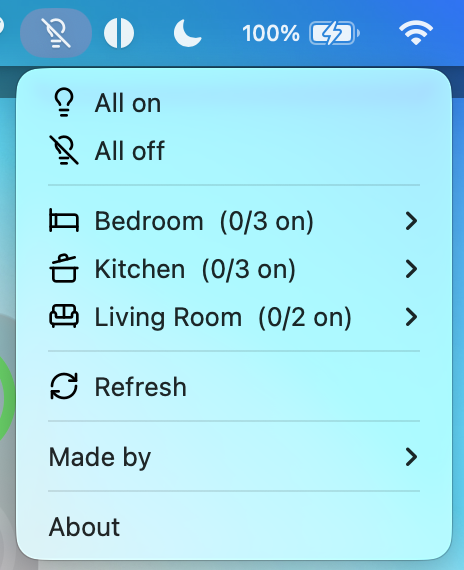
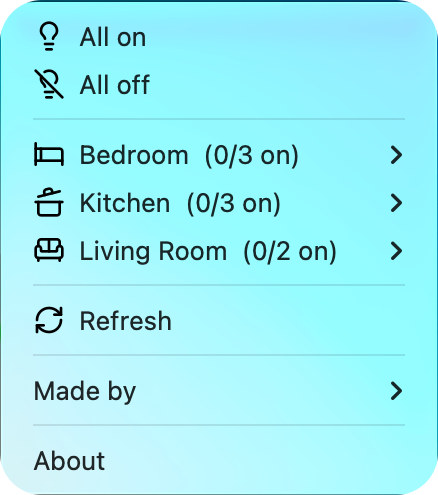
Crop README screenshot to just the LIFX menu

diff --git a/README.md b/README.md
@@ -4,7 +4,7 @@ Control your LIFX lights from the Mac menu bar: whole rooms or single lights, br
 
 lifx-mac-menubar is a [SwiftBar](https://swiftbar.app) plugin. It's free and open source under the MIT License.
 
-<img src="docs/menu.png" width="232" alt="The open LIFX menu in the macOS menu bar: All on and All off, then Bedroom, Kitchen, and Living Room with how many lights are on in each, then Refresh, Made by, and About.">
+<img src="docs/menu.png" width="219" alt="The open LIFX menu in the macOS menu bar: All on and All off, then Bedroom, Kitchen, and Living Room with how many lights are on in each, then Refresh, Made by, and About.">
 
 > **Unofficial project.** lifx-mac-menubar is not affiliated with, endorsed by, or supported by LIFX. "LIFX" is a trademark of its owner and is used here only to describe what the plugin works with.
 
